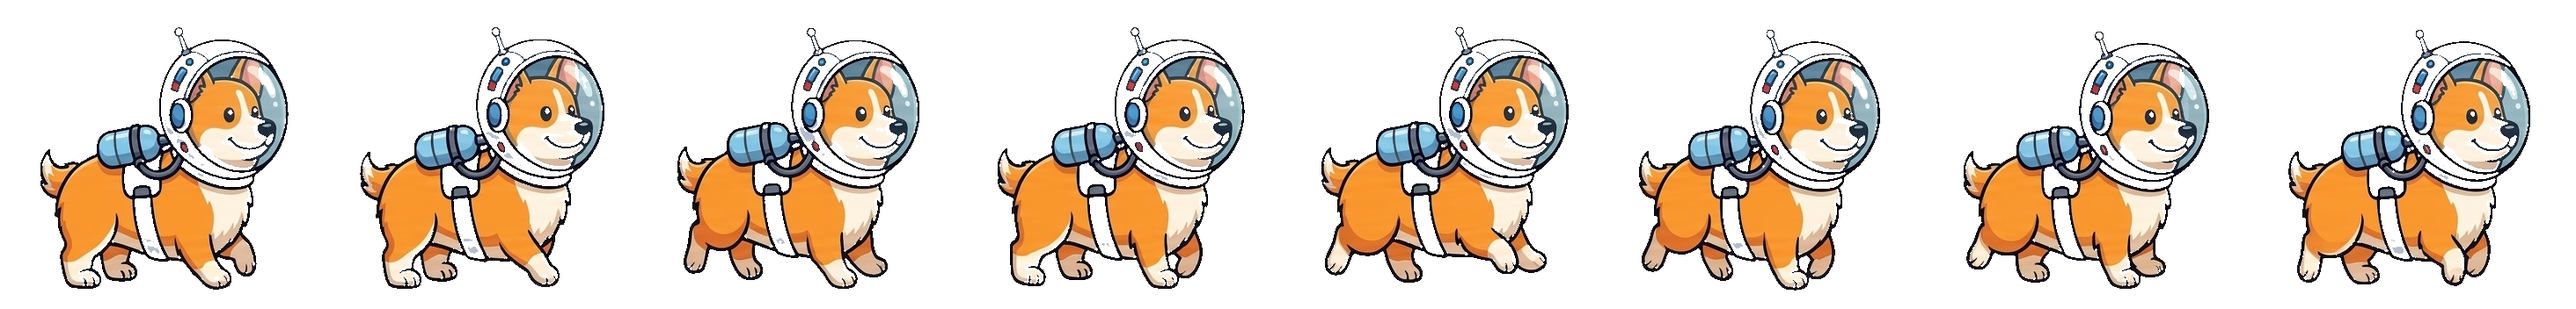
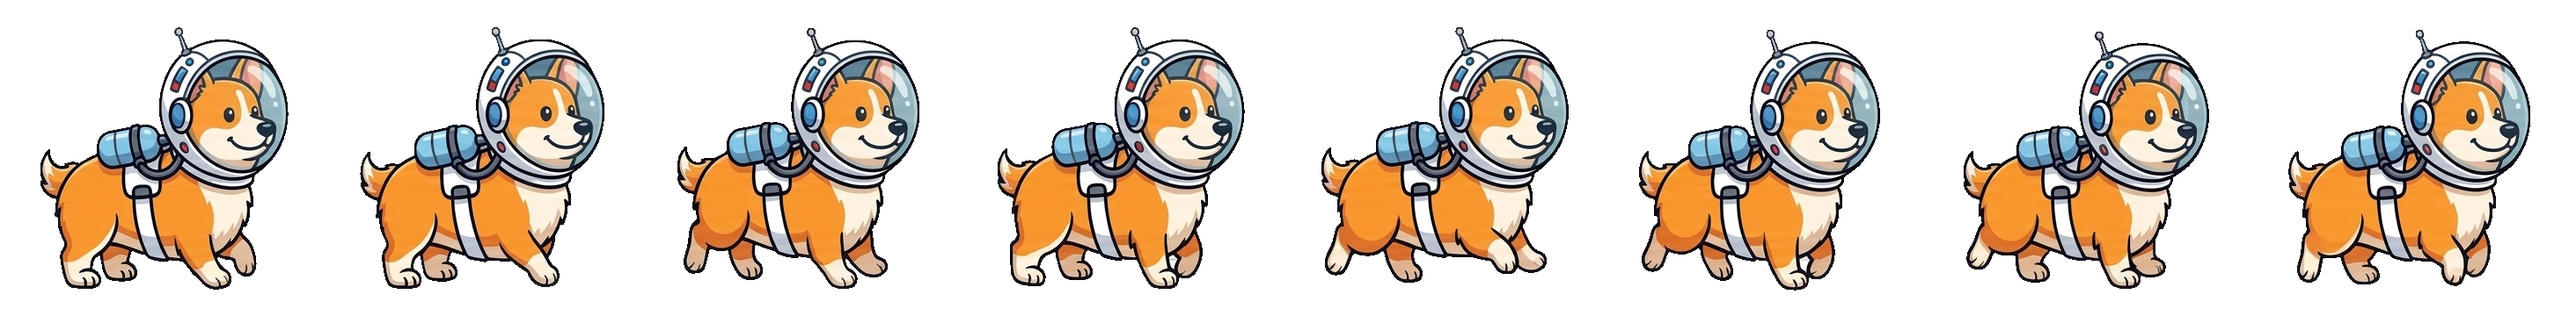
Astronaut Corgi opacity fix: rebuild sheet with edge-flood-only (no interior island rescue) — closed 72,950 alpha holes

diff --git a/frontend/src/game/scenes/PreloadScene.ts b/frontend/src/game/scenes/PreloadScene.ts
@@ -77,7 +77,7 @@ export class PreloadScene extends Phaser.Scene {
     // Cache-bust query string (`?v=…`) forces the browser to fetch the latest
     // repaired PNG whenever the corgi assets are updated — bypasses any stale
     // sprite data cached from earlier gameplay sessions.
-    const V = 'v=20260726d';
+    const V = 'v=20260726e';
     this.load.spritesheet('corgi_run', `/assets/corgi_run_sheet.png?${V}`, {
       frameWidth: 366,
       frameHeight: 352,

diff --git a/frontend/scripts/fix_astronaut_opacity.py b/frontend/scripts/fix_astronaut_opacity.py
@@ -1,0 +1,121 @@
+#!/usr/bin/env python3
+"""
+Astronaut Corgi transparency fix.
+
+The earlier `strip_checker_bg.py` pipeline had an "isolated island rescue"
+pass that treated any small connected component of checkerboard-like pixels
+as background — including islands trapped INSIDE the astronaut's silver
+spacesuit / helmet whose colours happen to be within the "unsaturated pale"
+mask range. That pass punched ~9 000 alpha=0 holes into each of the 8 frames
+(~73k pixels total across the sheet).
+
+This repair script rebuilds the sheet from the original Nano-Banana raw JPEG:
+  1. Use ONLY the edge-flood pass to remove the exterior checkerboard.
+  2. Force every pixel INSIDE the silhouette (whether the strip mask marked
+     it as "background-like" or not) to alpha 255.
+  3. Zero the RGB where alpha=0 so residual checker colour cannot bleed.
+
+Result: astronaut is fully opaque; transparency exists ONLY outside the
+character silhouette. No interior holes.
+
+Runs only on the astronaut asset — other approved sheets remain untouched.
+"""
+from collections import deque
+from pathlib import Path
+
+import numpy as np
+from PIL import Image
+from scipy import ndimage  # type: ignore
+
+RAW = Path('/tmp/astronaut_run_sheet_raw.png')
+OUT = Path('/app/frontend/public/assets/astronaut_run_sheet.png')
+FRAMES = 8
+
+src = Image.open(RAW).convert('RGB')
+W, H = src.size
+frame_w = W // FRAMES
+rgb = np.array(src)
+
+# Same mask logic as strip_checker_bg.py — auto-detect two dominant BG colours
+# from the top strip so this works across whatever palette Nano-Banana emitted.
+def detect_bg_palette(strip_rgb):
+    q = (strip_rgb.reshape(-1, 3) // 4) * 4
+    packed = q[:, 0].astype(np.int32) * 1_000_000 + q[:, 1].astype(np.int32) * 1000 + q[:, 2].astype(np.int32)
+    vals, counts = np.unique(packed, return_counts=True)
+    order = np.argsort(-counts)
+    def unpack(v):
+        v = int(v)
+        return np.array([v // 1_000_000, (v // 1000) % 1000, v % 1000], dtype=np.int16)
+    return unpack(vals[order[0]]), unpack(vals[order[1]])
+
+def bg_mask(frame_rgb):
+    a, b = detect_bg_palette(frame_rgb[:40, :, :])
+    r, g, bl = frame_rgb[..., 0].astype(np.int16), frame_rgb[..., 1].astype(np.int16), frame_rgb[..., 2].astype(np.int16)
+    chroma = np.maximum(np.maximum(r, g), bl) - np.minimum(np.minimum(r, g), bl)
+    def near(c, tol=22):
+        return (np.abs(r - c[0]) <= tol) & (np.abs(g - c[1]) <= tol) & (np.abs(bl - c[2]) <= tol)
+    lightness = (r + g + bl) // 3
+    fallback = (chroma <= 20) & (lightness >= 150) & (lightness <= 258)
+    return near(a) | near(b) | fallback
+
+def edge_flood(mask):
+    h, w = mask.shape
+    seed = np.zeros_like(mask)
+    seed[0, :] = mask[0, :]
+    seed[-1, :] = mask[-1, :]
+    seed[:, 0] = mask[:, 0]
+    seed[:, -1] = mask[:, -1]
+    # Propagate through mask pixels only
+    return ndimage.binary_propagation(seed, mask=mask)
+
+out = np.dstack([rgb, np.full((H, W), 255, dtype=np.uint8)])
+total_bg = 0
+for i in range(FRAMES):
+    x0 = i * frame_w
+    x1 = W if i == FRAMES - 1 else (i + 1) * frame_w
+    frame = rgb[:, x0:x1, :]
+    mask = bg_mask(frame)
+    flood = edge_flood(mask)
+    # NOTE: intentionally NO isolated-island rescue. Any interior pixel that
+    # matches the checkerboard mask BUT is not connected to the frame edge
+    # stays fully opaque. This is what fixes the 9 000 holes-per-frame bug.
+    # Dilate flood by 1 to catch seam pixels along the silhouette outline,
+    # but re-protect any vividly-coloured pixel (dog, helmet colour, straps).
+    flood = ndimage.binary_dilation(flood, iterations=1)
+    r_ = frame[..., 0].astype(np.int16)
+    g_ = frame[..., 1].astype(np.int16)
+    b_ = frame[..., 2].astype(np.int16)
+    chroma = np.maximum(np.maximum(r_, g_), b_) - np.minimum(np.minimum(r_, g_), b_)
+    protect = chroma >= 25
+    flood = flood & ~protect
+    out[:, x0:x1, 3] = np.where(flood, 0, 255).astype(np.uint8)
+    for c in range(3):
+        out[:, x0:x1, c] = np.where(flood, 0, rgb[:, x0:x1, c])
+    total_bg += int(flood.sum())
+    print(f"[frame {i}] cleared {int(flood.sum())} bg px ({100*int(flood.sum())/(H*(x1-x0)):.1f}% of frame)")
+
+# Sanity re-audit: how many INTERIOR alpha=0 pixels remain?
+alpha = out[..., 3]
+interior_holes_total = 0
+for i in range(FRAMES):
+    x0 = i * frame_w
+    x1 = W if i == FRAMES - 1 else (i + 1) * frame_w
+    fa = alpha[:, x0:x1]
+    outside_seed = np.zeros_like(fa, dtype=bool)
+    outside_seed[0, :]  = fa[0, :]  < 128
+    outside_seed[-1, :] = fa[-1, :] < 128
+    outside_seed[:, 0]  = fa[:, 0]  < 128
+    outside_seed[:, -1] = fa[:, -1] < 128
+    outside = ndimage.binary_propagation(outside_seed, mask=(fa < 128))
+    interior_zero = int(((~outside) & (fa == 0)).sum())
+    interior_holes_total += interior_zero
+    if interior_zero > 20:
+        print(f"  frame {i}: still {interior_zero} interior holes — WOULD FAIL")
+
+Image.fromarray(out, 'RGBA').save(OUT, 'PNG')
+print(f"\nFinal sheet: {OUT} ({total_bg} bg px total)")
+print(f"Interior transparency holes after fix: {interior_holes_total}")
+if interior_holes_total < 200:
+    print("PASS — astronaut is fully opaque inside silhouette")
+else:
+    print("FAIL — repair pass did not close all interior holes")
